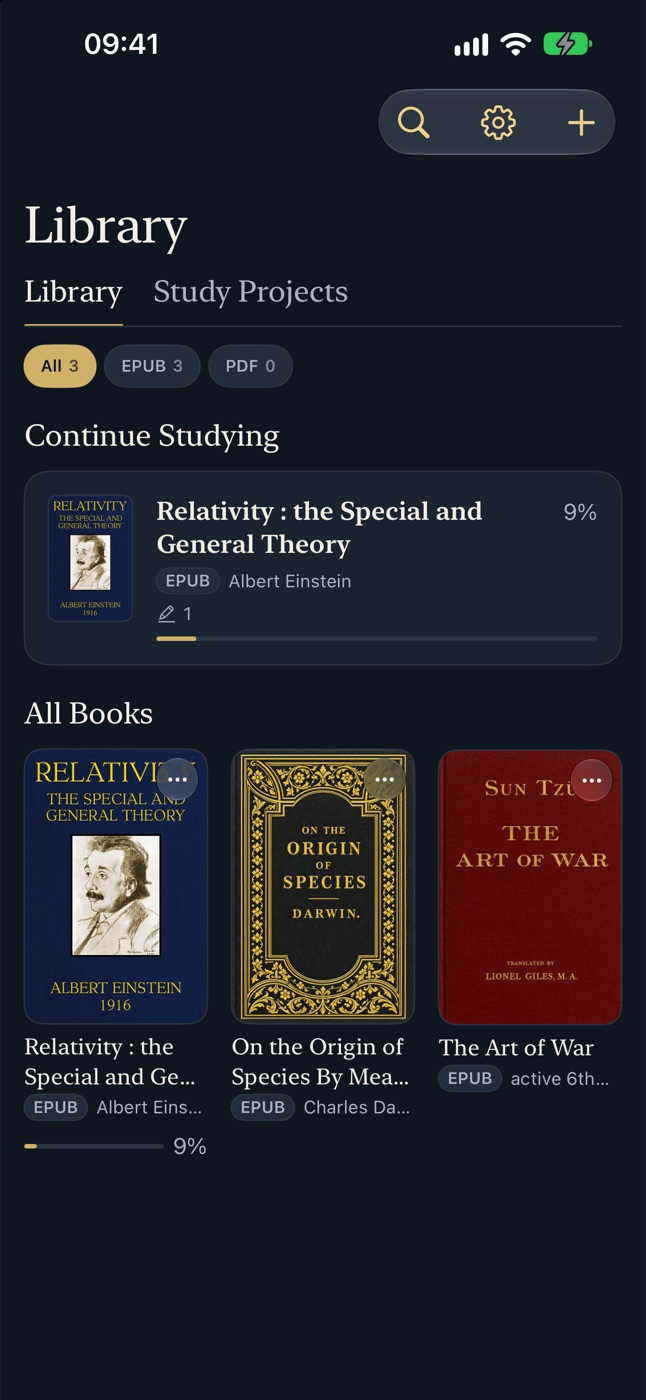
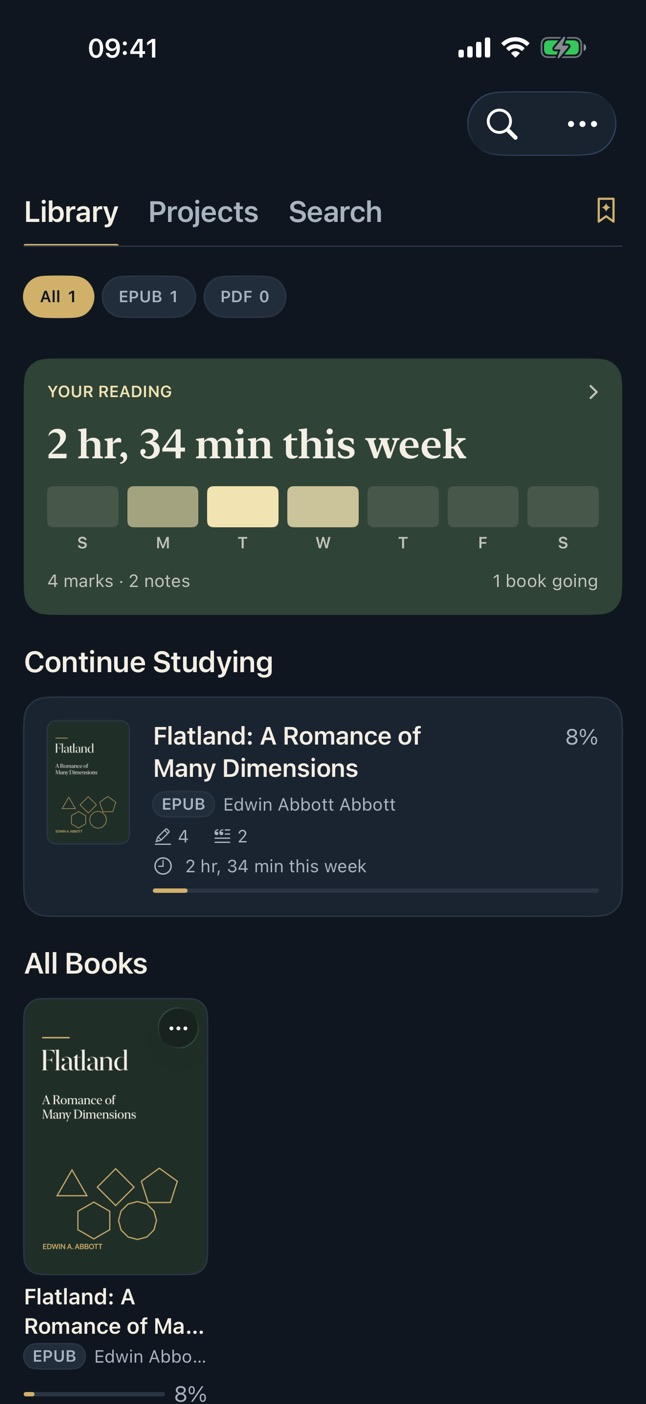
New screenshots in both themes and both languages, and Atlas in action
Every shot now comes from the current app, in light and dark, and shows
the one matching the page's theme, including the header toggle. Spanish
gets its own shots, and its tour now loads its script, so it changes
shots as it scrolls. The tour gains a step on the reading record, and the
Atlas section shows asking, distilling and improving a note.

diff --git a/es/index.html b/es/index.html
@@ -44,8 +44,8 @@
       </ul>
     </div>
     <div class="phone">
-      <img class="for-light" src="../img/library.jpg" width="646" height="1400" alt="La biblioteca: una tarjeta de Seguir estudiando con Relatividad de Einstein sobre un estante de tres portadas.">
-      <img class="for-dark" src="../img/library-dark.jpg" width="646" height="1400" alt="La biblioteca: una tarjeta de Seguir estudiando con Relatividad de Einstein sobre un estante de tres portadas.">
+      <img class="for-light" src="../img/es/library.jpg" width="646" height="1404" alt="La biblioteca: una tarjeta con el tiempo de lectura de esta semana sobre la tarjeta Seguir estudiando de Flatland.">
+      <img class="for-dark" src="../img/es/library-dark.jpg" width="646" height="1404" alt="La biblioteca: una tarjeta con el tiempo de lectura de esta semana sobre la tarjeta Seguir estudiando de Flatland.">
     </div>
   </section>
 
@@ -73,6 +73,7 @@
             <li>Cada resaltado guarda el pasaje exacto, aunque el archivo ya no esté</li>
             <li>Toca un resaltado para cambiarle el color, añadirle una nota o preguntarle a Atlas</li>
             <li>Los temas salen del índice del libro, o los nombras tú</li>
+            <li>Cinco colores para nombrar a tu manera y hasta cinco más tuyos. Un mismo juego en todos tus libros</li>
             <li>Exporta todo a Markdown: un libro o toda tu biblioteca</li>
           </ul>
         </div>
@@ -84,17 +85,26 @@
           <p>El índice, la búsqueda y tus notas están en un mismo panel, sobre la página. Abre un
           resultado y sus palabras aparecen marcadas en la página; abre una nota y con un toque vuelves
           a la lista. Si un tópico abarca varios libros, reúnelos en un proyecto de estudio y tenlo
-          todo en un solo lugar.</p>
+          todo en un solo lugar. Afina una búsqueda por libro, tema, proyecto o varios colores a la vez.</p>
+        </div>
+      </article>
+      <article class="step">
+        <div class="copy">
+          <p class="eyebrow">Mirar atrás</p>
+          <h2>Mira en qué se te fue el tiempo de lectura.</h2>
+          <p>La biblioteca muestra el tiempo de esta semana de un vistazo. Ábrelo para ver la semana, el
+          mes o todo el tiempo, por libros y temas. Sin metas ni rachas.</p>
         </div>
       </article>
     </div>
     <div class="tour-stage">
       <div class="phone"><div class="shots">
-        <img class="shot is-on" src="../img/reader.jpg" width="646" height="1400" alt="Una página de Relatividad con un pasaje resaltado en verde y el panel de lectura abajo.">
-        <img class="shot" loading="lazy" src="../img/select.jpg" width="646" height="1400" alt="Un pasaje seleccionado con el menú: Resaltar, Nota, Preguntar a Atlas, Copiar.">
-        <img class="shot" loading="lazy" src="../img/contents.jpg" width="646" height="1400" alt="El panel con las pestañas Índice, Buscar y Notas sobre el libro.">
+        <div class="shot is-on"><img class="for-light" src="../img/es/page.jpg" width="646" height="1404" alt="Una página de Flatland con dos pasajes resaltados en azul y naranja, y el panel de lectura abajo."><img class="for-dark" loading="lazy" src="../img/es/page-dark.jpg" width="646" height="1404" alt="Una página de Flatland con dos pasajes resaltados en azul y naranja, y el panel de lectura abajo."></div>
+        <div class="shot"><img class="for-light" loading="lazy" src="../img/es/note.jpg" width="646" height="1404" alt="Un pasaje resaltado abierto con su nota, su tema y su color."><img class="for-dark" loading="lazy" src="../img/es/note-dark.jpg" width="646" height="1404" alt="Un pasaje resaltado abierto con su nota, su tema y su color."></div>
+        <div class="shot"><img class="for-light" loading="lazy" src="../img/es/filters.jpg" width="646" height="1404" alt="Los filtros de Buscar con dos colores elegidos, cada uno como etiqueta sobre los resultados."><img class="for-dark" loading="lazy" src="../img/es/filters-dark.jpg" width="646" height="1404" alt="Los filtros de Buscar con dos colores elegidos, cada uno como etiqueta sobre los resultados."></div>
+        <div class="shot"><img class="for-light" loading="lazy" src="../img/es/record.jpg" width="646" height="1404" alt="Tu lectura: dos horas y media esta semana, por libro y por tema."><img class="for-dark" loading="lazy" src="../img/es/record-dark.jpg" width="646" height="1404" alt="Tu lectura: dos horas y media esta semana, por libro y por tema."></div>
       </div></div>
-      <div class="tour-dots" aria-hidden="true"><span class="is-on"></span><span></span><span></span></div>
+      <div class="tour-dots" aria-hidden="true"><span class="is-on"></span><span></span><span></span><span></span></div>
     </div>
   </section>
 
@@ -121,12 +131,12 @@
       <p>Atlas usa Apple Intelligence dentro de tu propio iPhone: responde en modo avión y tus
       preguntas nunca salen de tu teléfono.</p>
       <div class="cards">
-        <div class="card"><h3>Pregunta lo que no entiendes</h3><p>Selecciona la frase en la que te perdiste y pregunta. Atlas responde y te muestra los pasajes que usó, para que lo compruebes en el libro.</p></div>
-        <div class="card"><h3>Guarda la conversación en una nota</h3><p>Cuando una conversación te aclara algo, guárdala: añade una respuesta a tu nota o destila toda la conversación en un resumen breve, debajo de lo que escribiste.</p></div>
-        <div class="card"><h3>Dilo mejor</h3><p>Atlas te sugiere una versión más clara de tu nota. Tu texto no cambia hasta que tú aceptes la sugerencia.</p></div>
+        <div class="card"><h3>Pregunta lo que no entiendes</h3><p>Selecciona la frase en la que te perdiste y pregunta. Atlas responde y te muestra los pasajes que usó, para que lo compruebes en el libro.</p><div class="phone small"><img class="for-light" loading="lazy" src="../img/es/atlas-ask.jpg" width="646" height="1404" alt="Atlas responde una pregunta sobre un pasaje, con su fuente y una siguiente pregunta sugerida."><img class="for-dark" loading="lazy" src="../img/es/atlas-ask-dark.jpg" width="646" height="1404" alt="Atlas responde una pregunta sobre un pasaje, con su fuente y una siguiente pregunta sugerida."></div></div>
+        <div class="card"><h3>Guarda la conversación en una nota</h3><p>Cuando una conversación te aclara algo, guárdala: añade una respuesta a tu nota o destila toda la conversación en un resumen breve, debajo de lo que escribiste.</p><div class="phone small"><img class="for-light" loading="lazy" src="../img/es/atlas-distill.jpg" width="646" height="1404" alt="Una nota con un resumen breve de Atlas bajo las palabras del lector, y Deshacer al lado."><img class="for-dark" loading="lazy" src="../img/es/atlas-distill-dark.jpg" width="646" height="1404" alt="Una nota con un resumen breve de Atlas bajo las palabras del lector, y Deshacer al lado."></div></div>
+        <div class="card"><h3>Dilo mejor</h3><p>Atlas te sugiere una versión más clara de tu nota. Tu texto no cambia hasta que tú aceptes la sugerencia.</p><div class="phone small"><img class="for-light" loading="lazy" src="../img/es/atlas-improve.jpg" width="646" height="1404" alt="Una versión más clara de una nota con los cambios marcados, y los botones Deshacer y Conservar."><img class="for-dark" loading="lazy" src="../img/es/atlas-improve-dark.jpg" width="646" height="1404" alt="Una versión más clara de una nota con los cambios marcados, y los botones Deshacer y Conservar."></div></div>
       </div>
       <p class="fine">Atlas necesita un iPhone compatible con Apple Intelligence. Puede equivocarse,
-      así que confirma en el libro lo que sea importante.</p>
+      así que confirma en el libro lo que sea importante. Las respuestas que se muestran son ejemplos.</p>
     </section>
   </div>
 
@@ -188,7 +198,7 @@
   </div>
 </footer>
 
-<script src="tour.js" defer></script>
+<script src="../tour.js" defer></script>
 <script src="../theme.js" defer></script>
 </body>
 </html>

diff --git a/index.html b/index.html
@@ -44,8 +44,8 @@
       </ul>
     </div>
     <div class="phone">
-      <img class="for-light" src="img/library.jpg" width="646" height="1400" alt="The library: a Continue Studying card for Einstein's Relativity above a shelf of three book covers.">
-      <img class="for-dark" src="img/library-dark.jpg" width="646" height="1400" alt="The library: a Continue Studying card for Einstein's Relativity above a shelf of three book covers.">
+      <img class="for-light" src="img/library.jpg" width="646" height="1404" alt="The library: a card with this week's reading time above a Continue Studying card for Flatland.">
+      <img class="for-dark" src="img/library-dark.jpg" width="646" height="1404" alt="The library: a card with this week's reading time above a Continue Studying card for Flatland.">
     </div>
   </section>
 
@@ -73,6 +73,7 @@
             <li>Every highlight keeps its exact passage, even if the file is gone</li>
             <li>Tap a highlight to recolour it, add a note or ask Atlas</li>
             <li>Topics come from the book's table of contents, or name your own</li>
+            <li>Five colours to name your way, and up to five more of your own. One set across every book</li>
             <li>Export it all to Markdown: one book or your whole library</li>
           </ul>
         </div>
@@ -83,17 +84,26 @@
           <h2>Everything you marked, one tap away.</h2>
           <p>Contents, search and your notes live in one panel, right over the page. Open a search result
           and its words are marked on the page; open a note and one tap takes you back to the list. When a
-          subject spans several books, gather them into a study project and see it all in one place.</p>
+          subject spans several books, gather them into a study project and see it all in one place. Narrow a search by book, topic, project or several colours at once.</p>
+        </div>
+      </article>
+      <article class="step">
+        <div class="copy">
+          <p class="eyebrow">Look back</p>
+          <h2>See where your reading time went.</h2>
+          <p>The Library shows this week's time at a glance. Open it for the week, the month or all
+          time, across books and topics. No goals, no streaks.</p>
         </div>
       </article>
     </div>
     <div class="tour-stage">
       <div class="phone"><div class="shots">
-        <img class="shot is-on" src="img/reader.jpg" width="646" height="1400" alt="A page of Relativity with a passage highlighted in green and the reading dock below.">
-        <img class="shot" loading="lazy" src="img/select.jpg" width="646" height="1400" alt="A selected passage with the menu: Highlight, Note, Ask Atlas, Copy.">
-        <img class="shot" loading="lazy" src="img/contents.jpg" width="646" height="1400" alt="The contents panel with Contents, Search and Notes tabs over the book.">
+        <div class="shot is-on"><img class="for-light" src="img/page.jpg" width="646" height="1404" alt="A page of Flatland with two passages highlighted in blue and orange, and the reading dock below."><img class="for-dark" loading="lazy" src="img/page-dark.jpg" width="646" height="1404" alt="A page of Flatland with two passages highlighted in blue and orange, and the reading dock below."></div>
+        <div class="shot"><img class="for-light" loading="lazy" src="img/note.jpg" width="646" height="1404" alt="A highlighted passage open with its note, its topic and its colour."><img class="for-dark" loading="lazy" src="img/note-dark.jpg" width="646" height="1404" alt="A highlighted passage open with its note, its topic and its colour."></div>
+        <div class="shot"><img class="for-light" loading="lazy" src="img/filters.jpg" width="646" height="1404" alt="Search's filters with two colours chosen, each shown as a chip above the results."><img class="for-dark" loading="lazy" src="img/filters-dark.jpg" width="646" height="1404" alt="Search's filters with two colours chosen, each shown as a chip above the results."></div>
+        <div class="shot"><img class="for-light" loading="lazy" src="img/record.jpg" width="646" height="1404" alt="Your reading: two and a half hours this week, by book and by topic."><img class="for-dark" loading="lazy" src="img/record-dark.jpg" width="646" height="1404" alt="Your reading: two and a half hours this week, by book and by topic."></div>
       </div></div>
-      <div class="tour-dots" aria-hidden="true"><span class="is-on"></span><span></span><span></span></div>
+      <div class="tour-dots" aria-hidden="true"><span class="is-on"></span><span></span><span></span><span></span></div>
     </div>
   </section>
 
@@ -120,12 +130,12 @@
       <p>Atlas runs on Apple's on-device model, so it answers in airplane mode and your questions
       never leave your iPhone.</p>
       <div class="cards">
-        <div class="card"><h3>Ask what you don't get</h3><p>Select the sentence that lost you and ask. Atlas answers and shows the passages it used, so you can check it against the book.</p></div>
-        <div class="card"><h3>Save the conversation to a note</h3><p>When a conversation clicks, keep it: add an answer to your note, or distill the whole chat into a short summary below what you wrote.</p></div>
-        <div class="card"><h3>Say it better</h3><p>Atlas suggests a clearer version of your note. Your text doesn't change until you accept it.</p></div>
+        <div class="card"><h3>Ask what you don't get</h3><p>Select the sentence that lost you and ask. Atlas answers and shows the passages it used, so you can check it against the book.</p><div class="phone small"><img class="for-light" loading="lazy" src="img/atlas-ask.jpg" width="646" height="1404" alt="Atlas answering a question about a passage, with its source and a suggested next question."><img class="for-dark" loading="lazy" src="img/atlas-ask-dark.jpg" width="646" height="1404" alt="Atlas answering a question about a passage, with its source and a suggested next question."></div></div>
+        <div class="card"><h3>Save the conversation to a note</h3><p>When a conversation clicks, keep it: add an answer to your note, or distill the whole chat into a short summary below what you wrote.</p><div class="phone small"><img class="for-light" loading="lazy" src="img/atlas-distill.jpg" width="646" height="1404" alt="A note with a short summary from Atlas below the reader's words, and Undo beside it."><img class="for-dark" loading="lazy" src="img/atlas-distill-dark.jpg" width="646" height="1404" alt="A note with a short summary from Atlas below the reader's words, and Undo beside it."></div></div>
+        <div class="card"><h3>Say it better</h3><p>Atlas suggests a clearer version of your note. Your text doesn't change until you accept it.</p><div class="phone small"><img class="for-light" loading="lazy" src="img/atlas-improve.jpg" width="646" height="1404" alt="A clearer version of a note with the changes marked, and buttons for Undo and Keep."><img class="for-dark" loading="lazy" src="img/atlas-improve-dark.jpg" width="646" height="1404" alt="A clearer version of a note with the changes marked, and buttons for Undo and Keep."></div></div>
       </div>
       <p class="fine">Atlas needs an iPhone with Apple Intelligence. It can make mistakes, so check
-      what matters against the book.</p>
+      what matters against the book. Answers shown are examples.</p>
     </section>
   </div>
 

diff --git a/style.css b/style.css
@@ -145,7 +145,7 @@ h1, h2, h3 { font-family: var(--serif); font-weight: 600; letter-spacing: -0.01e
 .js .step.is-active .copy { opacity: 1; transform: none; }
 .tour-stage { position: sticky; top: max(4.5rem, calc(50vh - 340px)); align-self: start; }
 .tour-stage .phone { max-width: 290px; }
-.shots { position: relative; aspect-ratio: 646 / 1400; }
+.shots { position: relative; aspect-ratio: 646 / 1404; }
 .shot { position: absolute; inset: 0; height: 100%; opacity: 0; transform: scale(0.97); transition: opacity 0.55s ease, transform 0.7s ease; }
 .shot.is-on { opacity: 1; transform: none; }
 .tour-dots { display: flex; justify-content: center; gap: 0.5rem; margin-top: 1.25rem; }
@@ -175,6 +175,9 @@ h1, h2, h3 { font-family: var(--serif); font-weight: 600; letter-spacing: -0.01e
 .card { background: rgb(255 255 255 / 0.06); border: 1px solid rgb(255 255 255 / 0.1); border-radius: 16px; padding: 1.4rem; }
 .card h3 { margin: 0 0 0.4rem; font-size: 1.2rem; color: var(--on-shelf); }
 .card p { margin: 0; font-size: 0.98rem; }
+.card { display: flex; flex-direction: column; }
+.card .phone { margin: auto auto 0; width: 100%; }
+.card p { margin-bottom: 1.4rem; }
 .atlas .fine { font-size: 0.9rem; margin-top: 2rem; }
 
 .pricing { display: grid; grid-template-columns: 1fr 1fr; gap: 1rem; margin-top: 2rem; }
